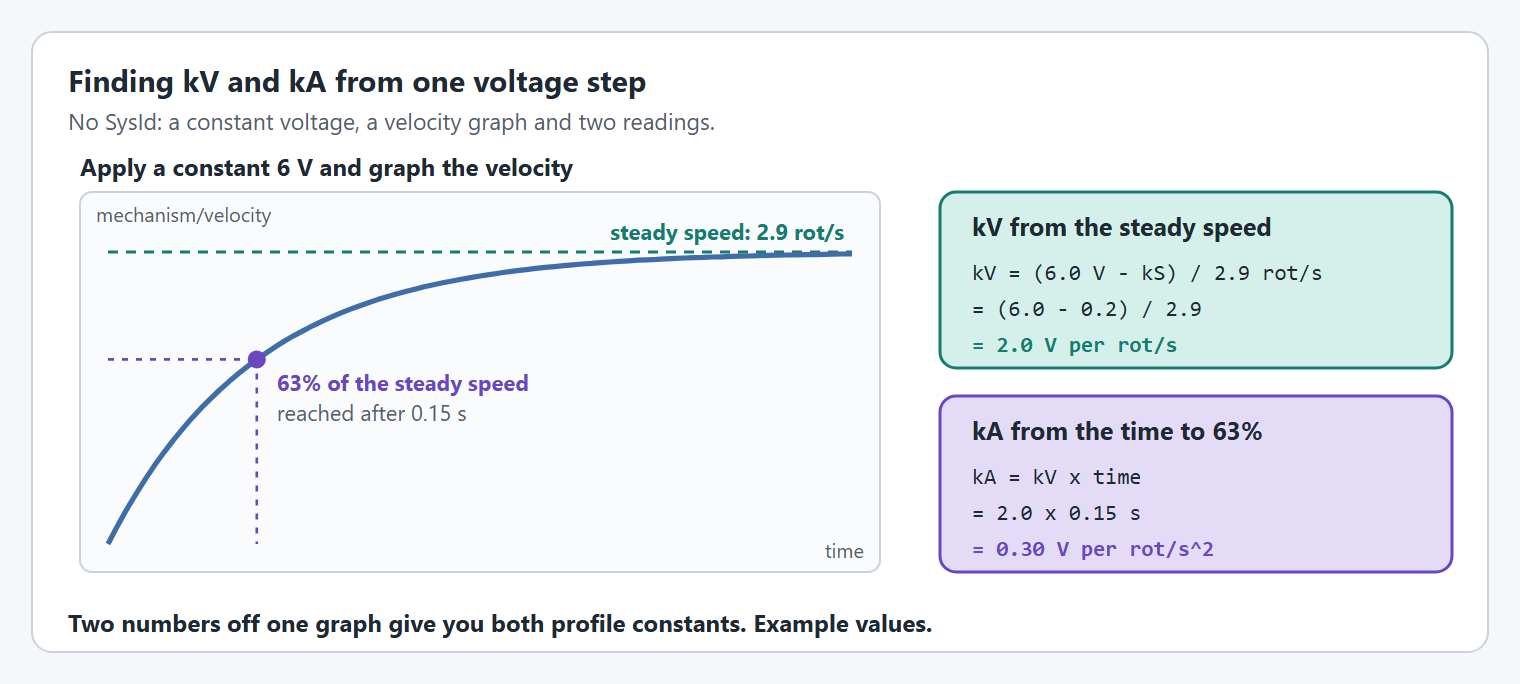
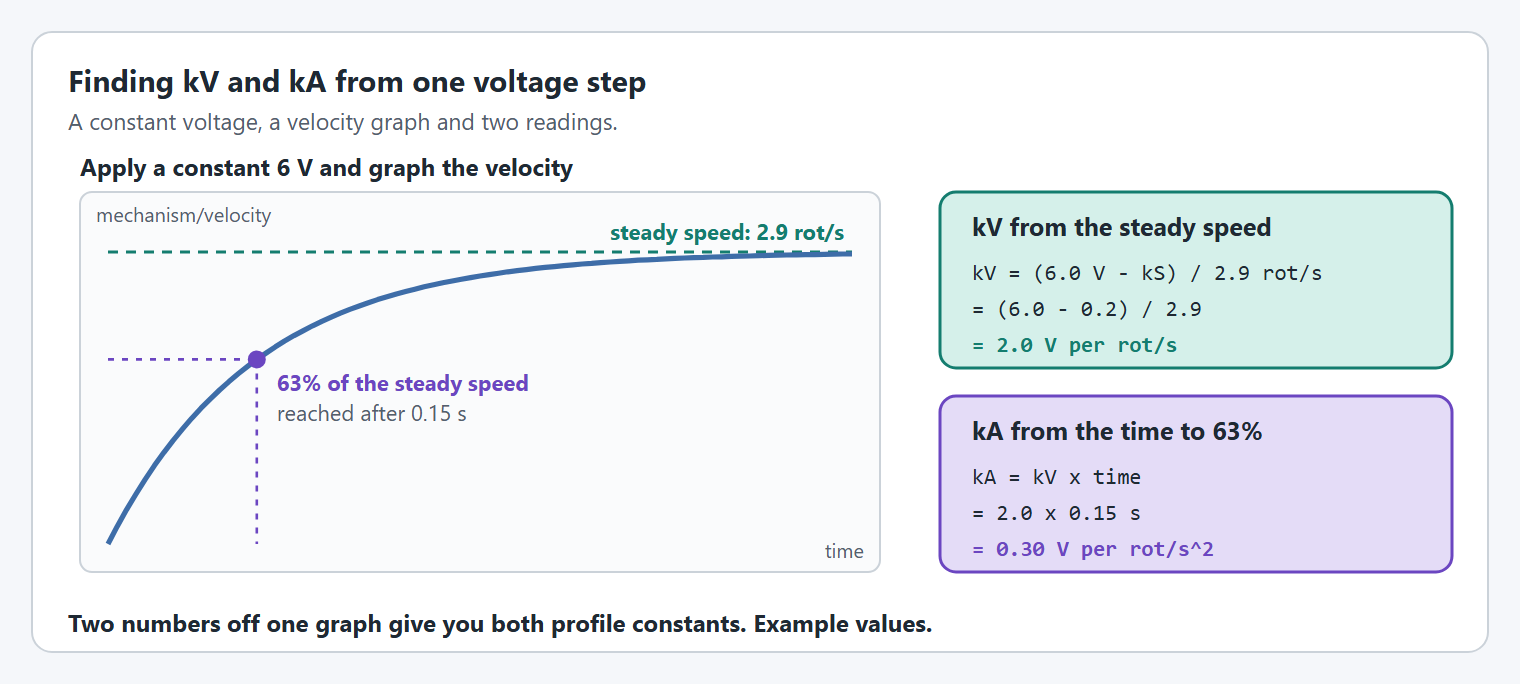
Tuning order: the motion profile comes last, and remove SysId from the docs
Arms, elevators and pivots are tuned kG, kS, kP, kD and then the motion profile, with kV tuned
once the profile is in. The tuning order graphic, the live tuning page and the mechanism pages
all give that order.

The docs no longer mention SysId: the exponential profile page measures kV and kA from a
voltage step, and the feature matrix note and example comments that pointed at SysId are gone.

Changed region(s): [[0.0309, 0.1535, 0.4638, 0.2149]]

diff --git a/details/live-tuning/README.md b/details/live-tuning/README.md
@@ -338,7 +338,7 @@ On the dashboard, the trapezoidal values are typed in RPM and RPM per second, as
 
 ## Tuning order
 
-Tune the feedforward first, then the feedback, one value at a time.
+Tune the feedforward first, then the feedback, then the motion profile last, one value at a time.
 
 {% hint style="success" %}
 **New to tuning?** The WPILib docs explain what each gain does and have interactive simulations to practice on. Read the one for your mechanism before tuning the real thing:
@@ -350,7 +350,7 @@ Tune the feedforward first, then the feedback, one value at a time.
 * [Tuning a vertical elevator](https://docs.wpilib.org/en/stable/docs/software/advanced-controls/introduction/tuning-elevator.html)
 {% endhint %}
 
-<figure><img src="../../.gitbook/assets/live-tuning-order.png" alt="Flywheel order: kS, kV with kP at zero, kP, kD if it oscillates, then optionally kA. Arm and elevator order: a slow motion profile first, kG, kV until the velocity tracks, kP and kD, then raise the motion profile limits."><figcaption><p>The order to tune in for a flywheel, an arm and an elevator.</p></figcaption></figure>
+<figure><img src="../../.gitbook/assets/live-tuning-order.png" alt="Flywheel order: kS, kV with kP at zero, kP, kD if it oscillates, then optionally kA. Arm and elevator order: kG, kS, kP with small moves, kD if it overshoots, and the motion profile last: add its limits, then kV until the velocity tracks."><figcaption><p>The order to tune in for a flywheel, an arm and an elevator.</p></figcaption></figure>
 
 {% tabs %}
 {% tab title="Flywheel" %}
@@ -368,13 +368,13 @@ With `SimpleMotorFeedforward`:
 {% endtab %}
 
 {% tab title="Arm" %}
-With `ArmFeedforward` and a trapezoidal motion profile:
+With `ArmFeedforward`. The motion profile comes last:
 
-1. **Motion profile**: start slow. Type a low `closedloop/motionprofile/maxVelocity` (RPM) and `maxAcceleration` (RPM/s), for example 15 RPM (90°/s) and 30 RPM/s.
-2. **kG**: hold the arm level (0° from horizontal) and raise kG until it stays there.
-3. **kV**: raise until `mechanism/velocity` tracks `closedloop/setpoint/velocity` during a move. Leave kA at 0 unless the arm lags while accelerating.
-4. **kP, then kD**: raise kP until tracking is quick but not oscillating, then add kD to damp any oscillation that is left.
-5. **Motion profile**: raise `maxVelocity` and `maxAcceleration` a step at a time. Stop when `mechanism/velocity` starts falling behind the setpoint or `current/stator` spikes.
+1. **kG**: with kP, kI, kD and the other feedforward gains at 0, hold the arm level (0° from horizontal) and raise kG until it stays there.
+2. **kS**: raise until the arm is just about to move, then back off a little.
+3. **kP, then kD**: command small moves of a few degrees. Raise kP until the arm reaches them quickly without oscillating, then add kD if it overshoots. Without a profile a setpoint is a sudden jump, so keep the moves small.
+4. **Motion profile**: now type a `closedloop/motionprofile/maxVelocity` (RPM) and `maxAcceleration` (RPM/s), for example 15 RPM (90°/s) and 30 RPM/s, and raise them a step at a time. Stop when `mechanism/velocity` starts falling behind the setpoint or `current/stator` spikes.
+5. **kV**: kV only acts while the setpoint is moving, so tune it with the profile. Raise it until `mechanism/velocity` tracks `closedloop/setpoint/velocity` during a long move. Leave kA at 0 unless the arm lags while accelerating.
 
 {% hint style="info" %}
 `kG * cos(angle)` is applied, so there is no gravity compensation when the arm is vertical (±90° from horizontal) and full kG when it is level.
@@ -382,13 +382,13 @@ With `ArmFeedforward` and a trapezoidal motion profile:
 {% endtab %}
 
 {% tab title="Elevator" %}
-With `ElevatorFeedforward` and a trapezoidal motion profile. An elevator is a linear mechanism, so you type meters and watch the `measurement/` keys:
+With `ElevatorFeedforward`. An elevator is a linear mechanism, so you type meters and watch the `measurement/` keys. The motion profile comes last:
 
-1. **Motion profile**: start slow. Type a low `closedloop/motionprofile/maxVelocity` (m/s) and `maxAcceleration` (m/s²), for example 0.5 m/s and 1 m/s².
-2. **kG**: raise until the carriage holds its height without drifting down. It is the same at every height.
-3. **kV**: raise until `measurement/velocity` tracks `closedloop/setpoint/velocity` during a move. Leave kA at 0 unless the carriage lags while accelerating.
-4. **kP, then kD**: raise kP until `measurement/position` follows `closedloop/setpoint/position` closely without oscillating, then add kD if it still rings.
-5. **Motion profile**: raise `maxVelocity` and `maxAcceleration` a step at a time. Stop when `measurement/velocity` starts falling behind the setpoint or `current/stator` spikes.
+1. **kG**: with kP, kI, kD and kS at 0, raise kG until the carriage holds its height without drifting down. It is the same at every height.
+2. **kS**: raise until the carriage is just about to move, then back off a little.
+3. **kP, then kD**: command small moves of a few centimeters. Raise kP until `measurement/position` reaches them quickly without oscillating, then add kD if it still rings. Without a profile a setpoint is a sudden jump, so keep the moves small.
+4. **Motion profile**: now type a `closedloop/motionprofile/maxVelocity` (m/s) and `maxAcceleration` (m/s²), for example 0.5 m/s and 1 m/s², and raise them a step at a time. Stop when `measurement/velocity` starts falling behind the setpoint or `current/stator` spikes.
+5. **kV**: kV only acts while the setpoint is moving, so tune it with the profile. Raise it until `measurement/velocity` tracks `closedloop/setpoint/velocity` during a long move. Leave kA at 0 unless the carriage lags while accelerating.
 
 {% hint style="info" %}
 Tune in the middle of the travel, away from the hard stops, and keep the soft limits (`measurement/limit/lower`, `measurement/limit/upper`) set while you do.
@@ -398,7 +398,7 @@ Tune in the middle of the travel, away from the hard stops, and keep the soft li
 
 ### Motion profiles on arms and elevators
 
-Arms and elevators should move on a motion profile. Without one, a new setpoint is a sudden jump and the mechanism slams toward it. With one, the setpoint slides there at a speed and acceleration you choose.
+Arms and elevators should end up moving on a motion profile, added once the gains hold the mechanism and reach small setpoints cleanly. Without one, a new setpoint is a sudden jump and the mechanism slams toward it. With one, the setpoint slides there at a speed and acceleration you choose.
 
 <figure><img src="../../.gitbook/assets/live-tuning-profile.png" alt="A trapezoid shaped velocity graph: the flat top is maxVelocity and the steepness of the ramps is maxAcceleration, with the measured velocity following the setpoint velocity"><figcaption><p>What the two motion profile limits change.</p></figcaption></figure>
 

diff --git a/details/arms.md b/details/arms.md
@@ -338,7 +338,7 @@ Soft limits still apply while the arm moves, with either kind of brake. The brak
 Do the configuration steps first, in simulation, then the tuning steps on the real mechanism with [live tuning](live-tuning/README.md). Tuning something that is configured wrong wastes the time.
 
 {% hint style="danger" %}
-Like all tuning, this can be dangerous. Keep clear of the mechanism, start with low current limits and slow profiles, and practice in simulation first.
+Like all tuning, this can be dangerous. Keep clear of the mechanism, start with low current limits and small moves, and practice in simulation first.
 {% endhint %}
 
 ### Configure it
@@ -371,7 +371,7 @@ Put [`withHardLimits`](mechanism-configs/shared-options.md#withhardlimits) where
 {% step %}
 #### Protect the motor
 
-Set a [stator current limit](editor/config/limits-and-protection.md#current-limits), `MotorMode.BRAKE`, and a slow [trapezoidal profile](editor/config/motion-profiles.md#withtrapezoidalprofile) to start with.
+Set a low [stator current limit](editor/config/limits-and-protection.md#current-limits) to start with, and `MotorMode.BRAKE`.
 {% endstep %}
 
 {% step %}
@@ -397,21 +397,21 @@ Raise `closedloop/feedforward/kS` until the arm is just about to move, then back
 {% endstep %}
 
 {% step %}
-#### Set the profile
-
-Choose a maximum velocity and acceleration the arm can really reach. If it cannot keep up, the profile is too fast, not the gains too low.
-{% endstep %}
-
-{% step %}
-#### Find kV
-
-Run a long move and watch the setpoint velocity against `mechanism/velocity` in the middle of it. Raise kV until they match.
-{% endstep %}
-
-{% step %}
 #### Raise kP, then add kD
 
-Raise kP until the arm reaches the setpoint quickly, and stop when it starts to shake. Add a little kD if it overshoots.
+Raise kP until the arm reaches the setpoint quickly, and stop when it starts to shake. Add a little kD if it overshoots. Without a profile a new setpoint is a sudden jump, so tune with small moves, a few degrees or centimeters at a time.
+{% endstep %}
+
+{% step %}
+#### Add the motion profile last
+
+Once the arm holds and reaches small setpoints cleanly, set a maximum velocity and acceleration the arm can really reach, and raise them a step at a time. If the arm cannot keep up, the profile is too fast, not the gains too low.
+{% endstep %}
+
+{% step %}
+#### Find kV with the profile
+
+kV only acts while the setpoint is moving, so it is tuned with the profile. Run a long move and watch the setpoint velocity against `mechanism/velocity` in the middle of it. Raise kV until they match.
 {% endstep %}
 
 {% step %}

diff --git a/details/editor/exponential-profiles.md b/details/editor/exponential-profiles.md
@@ -167,23 +167,22 @@ SmartMotorControllerConfig config = new SmartMotorControllerConfig(this)
 
 ## Tuning Exponential Profiles
 
-### Step 1: Characterize Your System
+### Step 1: Find kV and kA
 
-The exponential profile needs accurate kV and kA values. You have three options:
+The exponential profile needs accurate kV and kA values. You have two options:
 
 | Option | How | Good for |
 | --- | --- | --- |
 | Factory methods | YAMS calculates kV and kA from the motor, gearing and mass | A first version, and simulation |
-| Measure them yourself | One constant voltage test and a velocity graph, see [below](#measuring-kv-and-ka-without-sysid) | Real mechanisms, with no extra tools |
-| SysId | WPILib's characterization routine | Teams that already have a SysId workflow they trust |
+| Measure them yourself | One constant voltage test and a velocity graph, see [below](#measuring-kv-and-ka) | Real mechanisms, with no extra tools |
 
 {% hint style="warning" %}
 Factory methods use theoretical values. Real mechanisms have friction, cable drag, and other losses, so measured values are more accurate.
 {% endhint %}
 
-### Measuring kV and kA without SysId
+### Measuring kV and kA
 
-This is optional. It needs only a button binding and a graph, and it gives you both profile constants from one test.
+It needs only a button binding and a graph, and it gives you both profile constants from one test.
 
 <figure><img src="../../.gitbook/assets/exponential-profile-step-test.png" alt="A graph of velocity after a constant 6 volts is applied. It levels off at 2.9 rotations per second, so kV is 6.0 minus kS, divided by 2.9, which is 2.0. It reaches 63 percent of that speed after 0.15 seconds, so kA is kV times 0.15, which is 0.30"><figcaption><p>One voltage step gives both constants. Example values.</p></figcaption></figure>
 
@@ -331,7 +330,7 @@ When exponential profiles run on the SystemCore, there's slightly more latency c
 
 ### Profile works in sim but not on real robot
 
-* Measure kV and kA on the real mechanism, see [Measuring kV and kA without SysId](#measuring-kv-and-ka-without-sysid)
+* Measure kV and kA on the real mechanism, see [Measuring kV and kA](#measuring-kv-and-ka)
 * Account for friction with kS in feedforward
 * Check current limits aren't restricting torque
 

diff --git a/details/elevators.md b/details/elevators.md
@@ -307,7 +307,7 @@ Hard limits are where the physical stops are, and the simulated elevator cannot 
 Do the configuration steps first, in simulation, then the tuning steps on the real mechanism with [live tuning](live-tuning/README.md). Tuning something that is configured wrong wastes the time.
 
 {% hint style="danger" %}
-Like all tuning, this can be dangerous. Keep clear of the mechanism, start with low current limits and slow profiles, and practice in simulation first.
+Like all tuning, this can be dangerous. Keep clear of the mechanism, start with low current limits and small moves, and practice in simulation first.
 {% endhint %}
 
 ### Configure it
@@ -378,21 +378,21 @@ With only the feedforward, the carriage should stay where you leave it at the bo
 {% endstep %}
 
 {% step %}
-#### Set the profile
-
-Choose a maximum velocity and acceleration the elevator can really reach.
-{% endstep %}
-
-{% step %}
-#### Find kV
-
-Run a long move and raise kV until `measurement/velocity` matches the setpoint velocity in the middle of it.
-{% endstep %}
-
-{% step %}
 #### Raise kP, then add kD
 
-Raise kP until it reaches the setpoint quickly and stops cleanly. Add a little kD if it overshoots or bounces.
+Raise kP until it reaches the setpoint quickly and stops cleanly. Add a little kD if it overshoots or bounces. Without a profile a new setpoint is a sudden jump, so tune with small moves, a few degrees or centimeters at a time.
+{% endstep %}
+
+{% step %}
+#### Add the motion profile last
+
+Once the elevator holds and reaches small setpoints cleanly, set a maximum velocity and acceleration it can really reach, and raise them a step at a time.
+{% endstep %}
+
+{% step %}
+#### Find kV with the profile
+
+kV only acts while the setpoint is moving, so it is tuned with the profile. Run a long move and raise kV until `measurement/velocity` matches the setpoint velocity in the middle of it.
 {% endstep %}
 
 {% step %}

diff --git a/details/turrets-wrists.md b/details/turrets-wrists.md
@@ -279,7 +279,7 @@ How heavy the pivot is to turn is set on the motor config with [`withMomentOfIne
 Do the configuration steps first, in simulation, then the tuning steps on the real mechanism with [live tuning](live-tuning/README.md). Tuning something that is configured wrong wastes the time.
 
 {% hint style="danger" %}
-Like all tuning, this can be dangerous. Keep clear of the mechanism, start with low current limits and slow profiles, and practice in simulation first.
+Like all tuning, this can be dangerous. Keep clear of the mechanism, start with low current limits and small moves, and practice in simulation first.
 {% endhint %}
 
 ### Configure it
@@ -328,21 +328,21 @@ Set kP, kI and kD to 0. Raise `closedloop/feedforward/kS` until the pivot is jus
 {% endstep %}
 
 {% step %}
-#### Set the profile
-
-Choose a maximum velocity and acceleration the pivot can really reach.
-{% endstep %}
-
-{% step %}
-#### Find kV
-
-Run a long move and raise kV until `mechanism/velocity` matches the setpoint velocity in the middle of it.
-{% endstep %}
-
-{% step %}
 #### Raise kP, then add kD
 
-Raise kP until it reaches the setpoint quickly, and stop when it starts to shake. Add a little kD if it overshoots.
+Raise kP until it reaches the setpoint quickly, and stop when it starts to shake. Add a little kD if it overshoots. Without a profile a new setpoint is a sudden jump, so tune with small moves, a few degrees or centimeters at a time.
+{% endstep %}
+
+{% step %}
+#### Add the motion profile last
+
+Once the pivot reaches small setpoints cleanly, set a maximum velocity and acceleration it can really reach, and raise them a step at a time.
+{% endstep %}
+
+{% step %}
+#### Find kV with the profile
+
+kV only acts while the setpoint is moving, so it is tuned with the profile. Run a long move and raise kV until `mechanism/velocity` matches the setpoint velocity in the middle of it.
 {% endstep %}
 {% endstepper %}
 

diff --git a/details/editor/config/feedforward.md b/details/editor/config/feedforward.md
@@ -29,7 +29,7 @@ Takes one of WPILib's three feedforward classes.
 
 `ArmFeedforward` and `SimpleMotorFeedforward` gains are per rotation of the mechanism. `ElevatorFeedforward` gains are per meter, and giving one makes the controller [distance based](closed-loop-control.md#withlinearclosedloopcontroller).
 
-[Live tuning](../../live-tuning/README.md) has the full order for finding these, and [Exponential profiles](../exponential-profiles.md#measuring-kv-and-ka-without-sysid) shows how to measure `kV` and `kA` from one voltage step.
+[Live tuning](../../live-tuning/README.md) has the full order for finding these, and [Exponential profiles](../exponential-profiles.md#measuring-kv-and-ka) shows how to measure `kV` and `kA` from one voltage step.
 
 ### Slots
 

diff --git a/details/editor/feature-matrix.md b/details/editor/feature-matrix.md
@@ -332,10 +332,6 @@ This is every option against every motor controller. What each option does, with
 **Temperature Cutoff**: the cutoff is checked by the closed loop running on the SystemCore, so it only works where the loop runs there. That is an LQR controller on any motor controller, an Exponential Profile on a `SparkWrapper`, and always on a `NovaWrapper`. With PID or a profile that runs on the motor controller, it does not work.
 {% endhint %}
 
-{% hint style="info" %}
-YAMS doesn't provide a built-in SysId routine. Use `SmartMechanism.setVoltage(Voltage)` (available on every mechanism) as the voltage-consumer function for WPILib's own `SysIdRoutine`.
-{% endhint %}
-
 ***
 
 ## Motor type support by wrapper

diff --git a/details/shooters.md b/details/shooters.md
@@ -213,7 +213,7 @@ A flywheel that reaches low speeds but not high ones, or that slows down more wi
 Do the configuration steps first, in simulation, then the tuning steps on the real mechanism with [live tuning](live-tuning/README.md). Tuning something that is configured wrong wastes the time.
 
 {% hint style="danger" %}
-Like all tuning, this can be dangerous. Keep clear of the mechanism, start with low current limits and slow profiles, and practice in simulation first.
+Like all tuning, this can be dangerous. Keep clear of the mechanism, start with low current limits and small moves, and practice in simulation first.
 {% endhint %}
 
 ### Configure it

diff --git a/details/editor/lqr-controllers.md b/details/editor/lqr-controllers.md
@@ -404,7 +404,7 @@ LQR can behave very differently with small parameter changes. Always validate in
 **Solutions**:
 - Re-measure mass and moment of inertia
 - Verify gearing ratio is correct
-- Measure kV and kA on the real mechanism and compare them with the model, see [Measuring kV and kA without SysId](exponential-profiles.md#measuring-kv-and-ka-without-sysid)
+- Measure kV and kA on the real mechanism and compare them with the model, see [Measuring kV and kA](exponential-profiles.md#measuring-kv-and-ka)
 - Account for friction and other losses in feedforward
 
 ## LQR vs PID Quick Reference

diff --git a/tutorials/elevator.md b/tutorials/elevator.md
@@ -662,7 +662,7 @@ public class ExampleSubsystem extends SubsystemBase {
 </strong><strong>  public Command set(double dutycycle) { return elevator.set(dutycycle);}
 </strong>
 <strong>  /**
-</strong><strong>   * Set the voltage of the elevator, useful for feeding a WPILib {@link org.wpilib.command2.sysid.SysIdRoutine}.
+</strong><strong>   * Set the voltage of the elevator, useful for finding its feedforward gains.
 </strong><strong>   * @param volts Voltage to apply.
 </strong><strong>   */
 </strong><strong>  public Command setVoltage(Voltage volts) { return elevator.setVoltage(volts);}

diff --git a/how-to/how-to-set-an-arms-target-angle.md b/how-to/how-to-set-an-arms-target-angle.md
@@ -110,7 +110,7 @@ public class ExampleSubsystem extends SubsystemBase {
 </strong><strong>  public Command set(double dutycycle) { return arm.set(dutycycle);}
 </strong>
 <strong>  /**
-</strong><strong>   * Set the voltage of the arm, useful for feeding a WPILib {@link org.wpilib.command2.sysid.SysIdRoutine}.
+</strong><strong>   * Set the voltage of the arm, useful for finding its feedforward gains.
 </strong><strong>   * @param volts Voltage to apply.
 </strong><strong>   */
 </strong><strong>  public Command setVoltage(Voltage volts) { return arm.setVoltage(volts);}
